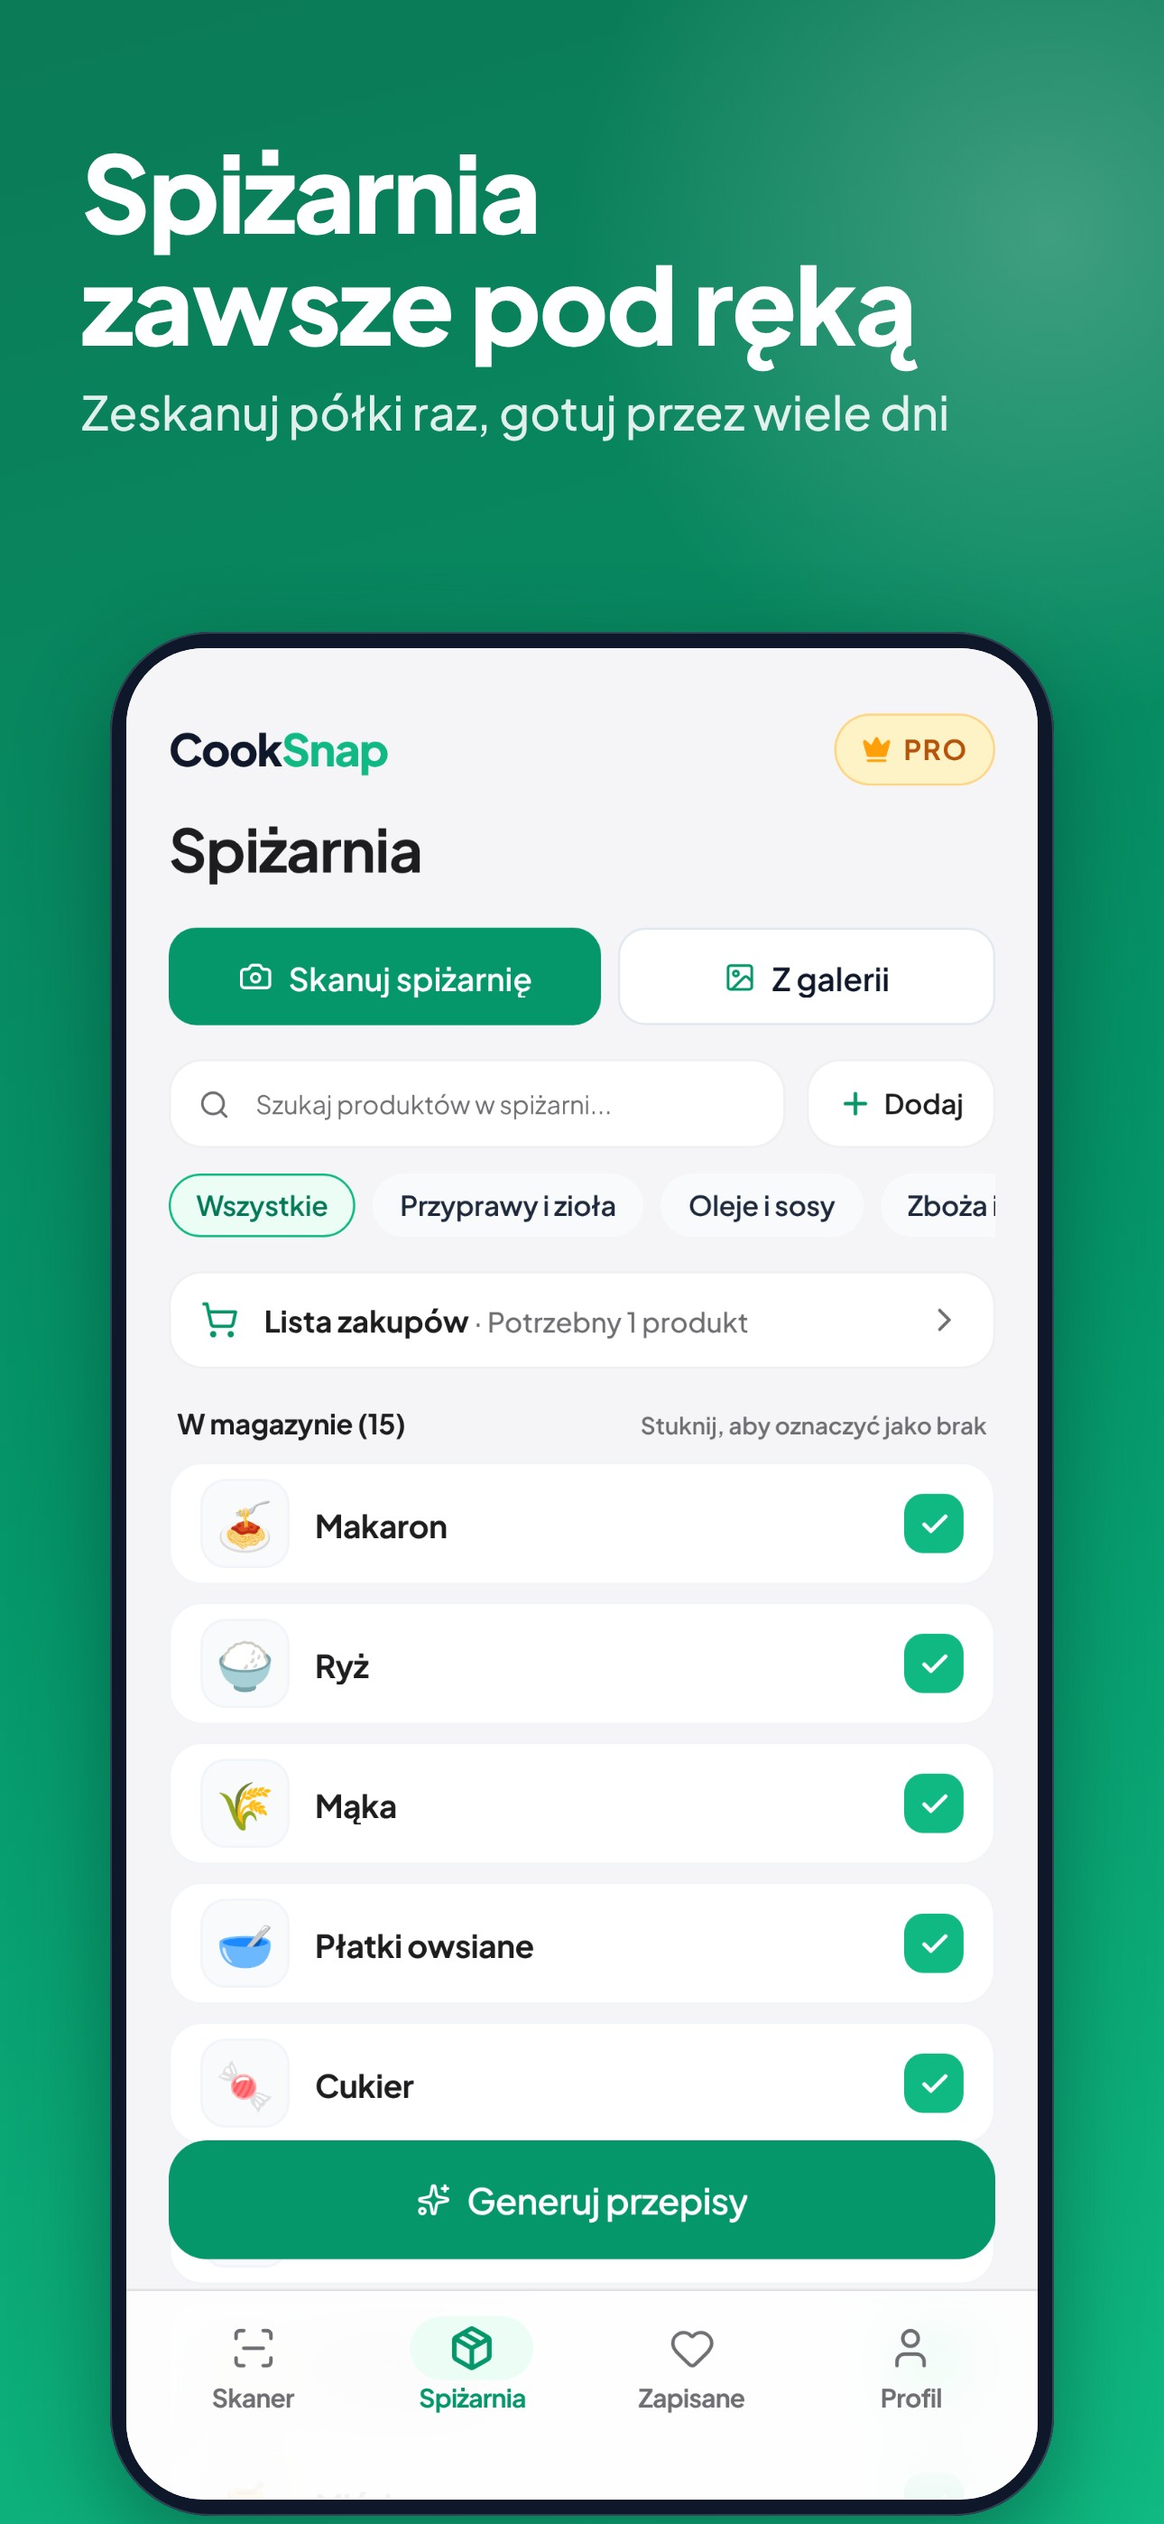
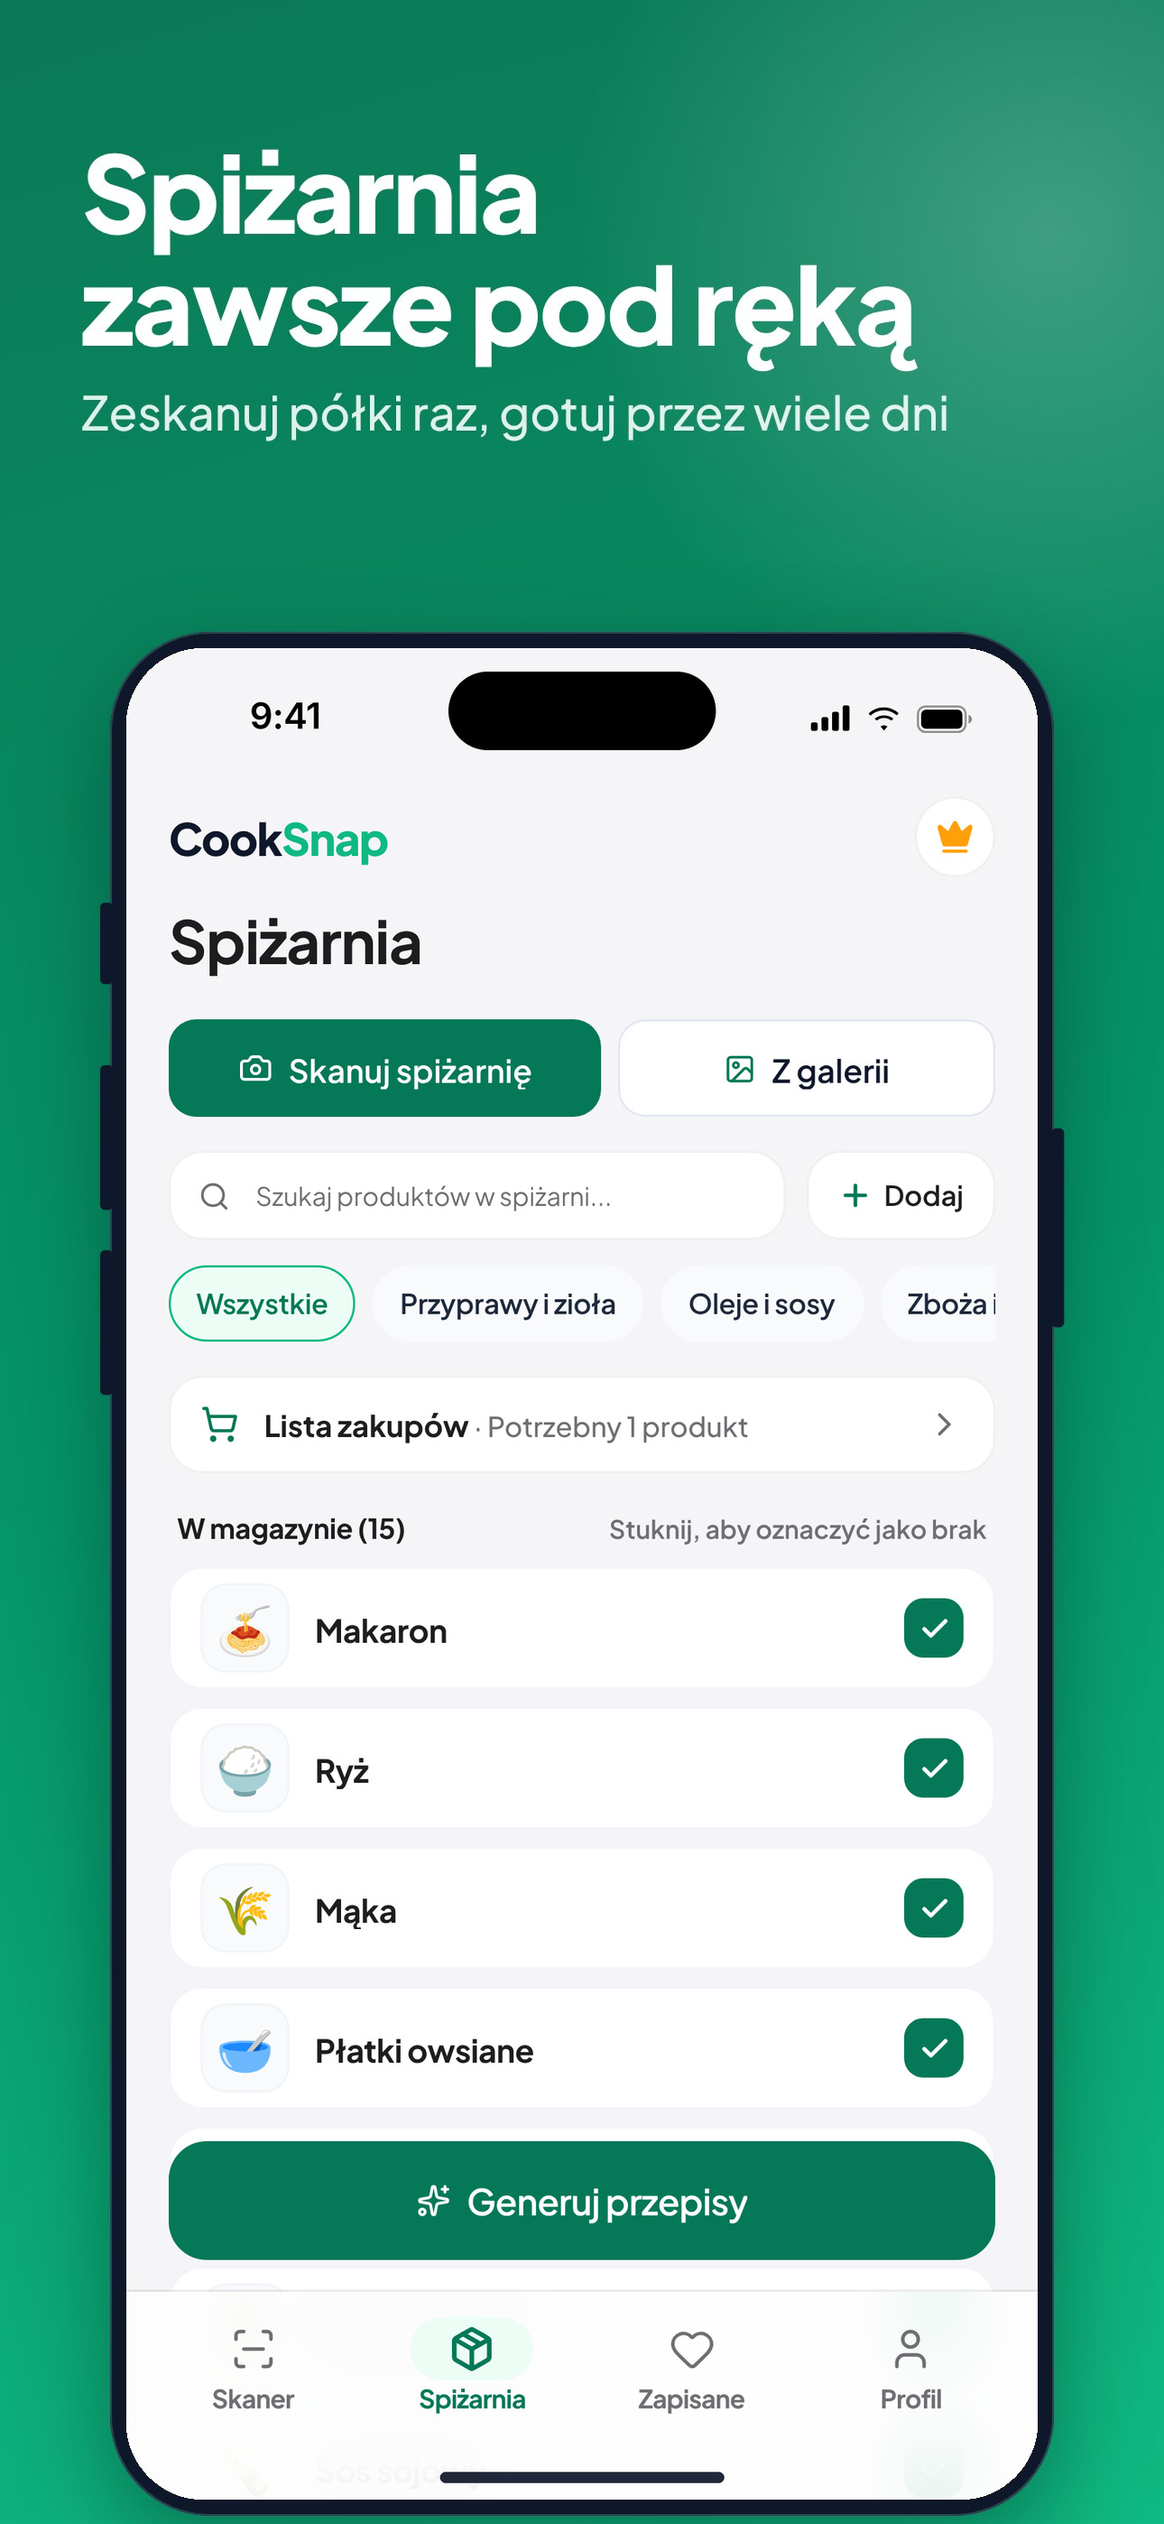
Store slides 03-07 (EN, PL) recaptured from the real app; all iOS slides with iPhone frame details; frame mask kept
Claude-Session: https://claude.ai/code/session_01RtbBoobjW7cVhPz1v3aXm1

diff --git a/docs/store/screenshots/tools/capture.js b/docs/store/screenshots/tools/capture.js
@@ -1,7 +1,7 @@
 // Captures the REAL CookSnap screen (the web build served by Metro on :8081) at the phone frame of the slides (430 x 873 pt @3x
 // = 1290 x 2619 px, the same shape as the frame screen) and draws the iOS status bar (9:41, signal, Wi-Fi, full battery) on top, because a browser has none.
 //
-//   NODE_PATH=<dir with playwright> node capture.js <scan|recipes> <en|pl> <out.png> [fridge-photo.jpg|png]
+//   NODE_PATH=<dir with playwright> node capture.js <scan|recipes|steps|diets|planner|pantry|modify> <en|pl> <out.png> [fridge-photo.jpg|png]
 //
 // Needs `EXPO_PUBLIC_GEMINI_PROXY_URL=... npx expo start --web --port 8081` running. Nothing in the app is changed: the
 // screen is put in its normal "just scanned" state by writing the app's own saved data (same keys the app uses), and
@@ -13,7 +13,10 @@ const path = require('path');
 const [slide, lang, out, photo] = process.argv.slice(2);
 if (!slide || !lang || !out) { console.error('usage: capture.js <scan|recipes> <en|pl> <out.png> [photo]'); process.exit(1); }
 
-const T = require(path.join(__dirname, 'strings.js'))[lang];
+const TR = require('child_process').execFileSync('node', ['--input-type=module', '-e', `import('${path.resolve(__dirname, '../../../../src/i18n/translations/' + lang + '.js')}').then(m=>process.stdout.write(JSON.stringify(m.default)))`], { maxBuffer: 1 << 24, stdio: ['ignore', 'pipe', 'ignore'] }).toString();
+const K = JSON.parse(TR);
+const zw = (str) => str.split('').join('\u200c?'); // the app puts a zero-width joiner inside some tab labels
+const T = { nav_scanner: K['nav.scanner'], generate: K['scanner.generateRecipes'], recipesTitle: K['recipeFeed.title'] };
 const ING = {
   en: ['Eggs', 'Milk', 'Cheese', 'Butter', 'Tomatoes', 'Bell Pepper', 'Spinach', 'Lemons', 'Strawberries', 'Carrots', 'Cucumber', 'Broccoli', 'Chicken', 'Olives'],
   pl: ['Jajka', 'Mleko', 'Ser', 'Masło', 'Pomidory', 'Papryka', 'Szpinak', 'Cytryny', 'Truskawki', 'Marchewki', 'Ogórek', 'Brokuły', 'Kurczak', 'Oliwki'],
@@ -21,8 +24,17 @@ const ING = {
 const EMOJI = ['🥚', '🥛', '🧀', '🧈', '🍅', '🫑', '🥬', '🍋', '🍓', '🥕', '🥒', '🥦', '🍗', '🫒'];
 const items = ING[lang].map((name, i) => ({ id: `ing-${i}`, name, emoji: EMOJI[i], icon: EMOJI[i] }));
 
+const PANTRY = {
+  en: ['Pasta', 'Rice', 'Flour', 'Rolled oats', 'Sugar', 'Olive oil', 'Soy sauce', 'Honey', 'Tomato paste', 'Salt', 'Black pepper', 'Paprika', 'Oregano', 'Cinnamon', 'Mustard', 'Ketchup'],
+  pl: ['Makaron', 'Ryż', 'Mąka', 'Płatki owsiane', 'Cukier', 'Oliwa z oliwek', 'Sos sojowy', 'Miód', 'Koncentrat pomidorowy', 'Sól', 'Czarny pieprz', 'Papryka słodka', 'Oregano', 'Cynamon', 'Musztarda', 'Ketchup'],
+}[lang];
+const PANTRY_META = [['Grains & Baking', '🍝'], ['Grains & Baking', '🍚'], ['Grains & Baking', '🌾'], ['Grains & Baking', '🥣'], ['Grains & Baking', '🍬'], ['Oils & Sauces', '🫒'], ['Oils & Sauces', '🍾'], ['Oils & Sauces', '🍯'], ['Oils & Sauces', '🍅'], ['Spices & Herbs', '🧂'], ['Spices & Herbs', '🧂'], ['Spices & Herbs', '🌶'], ['Spices & Herbs', '🌿'], ['Spices & Herbs', '🍂'], ['Condiments', '🟡'], ['Condiments', '🍅']];
+const pantryItems = PANTRY.map((name, i) => ({ id: `p-${i}`, name, category: PANTRY_META[i][0], icon: PANTRY_META[i][1], emoji: PANTRY_META[i][1], inStock: i !== 15 }));
+const MODIFY = { en: 'Make it dairy-free', pl: 'Zrób to bez nabiału' }[lang];
+const USES = { en: /Uses \d+ fridge item/, pl: /Wykorzystuje \d+ składnik/ }[lang];
+
 const STATUS_BAR = `
-<div id="ios-status" style="position:fixed;left:0;top:0;width:430px;height:54px;z-index:2147483647;pointer-events:none;font-family:Inter,'SF Pro Text',-apple-system,Helvetica,Arial,sans-serif;color:#000">
+<div id="ios-status" style="position:fixed;left:0;top:0;width:430px;height:54px;z-index:2147483647;pointer-events:none;__BG__font-family:Inter,'SF Pro Text',-apple-system,Helvetica,Arial,sans-serif;color:#000">
   <div style="position:absolute;left:0;top:0;width:150px;height:54px;display:flex;align-items:center;justify-content:center;padding-top:6px;font-weight:600;font-size:17px;letter-spacing:-0.2px">9:41</div>
   <div style="position:absolute;right:30px;top:0;height:54px;display:flex;align-items:center;gap:7px;padding-top:6px">
     <svg width="19" height="12" viewBox="0 0 19 12"><rect x="0" y="8" width="3.2" height="4" rx="1" fill="#000"/><rect x="5" y="5.5" width="3.2" height="6.5" rx="1" fill="#000"/><rect x="10" y="3" width="3.2" height="9" rx="1" fill="#000"/><rect x="15" y="0" width="3.2" height="12" rx="1" fill="#000"/></svg>
@@ -39,8 +51,10 @@ const STATUS_BAR = `
     'cooksnap:onboardingComplete:v1': 'true', 'cooksnap:recipeLanguage:v1': lang, 'cooksnap:unitSystem:v1': lang === 'pl' ? 'metric' : 'us',
     'cooksnap:firstScanHintShown:v1': 'true', 'cooksnap:settingsDoneHintShown:v1': 'true', 'cooksnap:aiConsent:v1': 'true',
     'cooksnap:ingredients:v1': JSON.stringify(items),
-    'cooksnap:isPro:v1': slide === 'recipes' ? 'true' : 'false',
+    'cooksnap:isPro:v1': slide === 'scan' ? 'false' : 'true',
+    'cooksnap:pantryItems:v1': JSON.stringify(pantryItems),
   };
+  if (slide === 'diets') seed['cooksnap:dietaryRestrictions:v1'] = JSON.stringify({ vegetarian: true, vegan: false, gluten_free: true, lactose_free: false, dairy_free: false, keto: false, nut_free: false, pescatarian: false, diabetic: false });
   if (photo) { seed['cooksnap:fridgePhoto:v1'] = JSON.stringify('/__shot/fridge'); await page.route('**/__shot/fridge', (r) => r.fulfill({ body: fs.readFileSync(photo), contentType: photo.endsWith('.png') ? 'image/png' : 'image/jpeg' })); }
   await page.addInitScript((s) => { for (const [k, v] of Object.entries(s)) localStorage.setItem(k, v); }, seed);
   const cdp = await ctx.newCDPSession(page);
@@ -48,18 +62,57 @@ const STATUS_BAR = `
   await page.goto('http://localhost:8081/', { waitUntil: 'load' });
   await page.getByText(T.nav_scanner, { exact: true }).last().waitFor({ timeout: 120000 });
   await page.waitForTimeout(2500);
-  if (slide === 'recipes') {
+  const generate = async () => {
     await page.getByText(T.generate, { exact: true }).first().click();
     await page.getByText(T.recipesTitle, { exact: true }).first().waitFor({ timeout: 180000 });
     await page.waitForTimeout(6000); // let the cards and their emoji settle
-    await page.evaluate((title) => {
-      const el = [...document.querySelectorAll('div')].find((d) => d.children.length === 0 && d.textContent.trim() === title);
-      const sc = [...document.querySelectorAll('div')].filter((e) => e.scrollHeight > e.clientHeight + 50);
-      if (el) for (const s of sc) s.scrollTop += el.getBoundingClientRect().top - 64;
-    }, T.recipesTitle);
-    await page.waitForTimeout(1200);
+  };
+  // Scrolls only the container that holds the text (so a sheet's own list moves, not the page behind it).
+  const scrollTo = (text, offset = 64) => page.evaluate(([title, off]) => {
+    const el = [...document.querySelectorAll('div')].find((d) => d.children.length === 0 && d.textContent.trim() === title);
+    if (!el) return;
+    let sc = el.parentElement;
+    while (sc && !(sc.scrollHeight > sc.clientHeight + 50 && /(auto|scroll)/.test(getComputedStyle(sc).overflowY))) sc = sc.parentElement;
+    if (sc) sc.scrollTop += el.getBoundingClientRect().top - off;
+  }, [text, offset]);
+  const tab = async (key) => { await page.getByText(new RegExp('^' + zw(K[key]) + '$')).last().click(); await page.waitForTimeout(1500); };
+  const openFirstRecipe = async () => { await page.getByText(USES).first().click(); await page.waitForTimeout(2500); };
+
+  if (slide === 'recipes') { await generate(); await scrollTo(T.recipesTitle); }
+  if (slide === 'steps') { await generate(); await openFirstRecipe(); await scrollTo(K['recipeDetail.instructionsTitle'], 250); }
+  if (slide === 'modify') {
+    await generate(); await openFirstRecipe();
+    await page.getByText(K['recipeDetail.modifyWithAI'], { exact: true }).first().click();
+    await page.waitForTimeout(800);
+    await page.getByPlaceholder(K['recipeDetail.modifyPlaceholder']).fill(MODIFY);
+    await page.waitForTimeout(500);
   }
-  await page.evaluate((html) => { const d = document.createElement('div'); d.innerHTML = html; document.body.appendChild(d.firstElementChild); }, STATUS_BAR);
+  if (slide === 'planner') {
+    await tab('nav.profile');
+    await page.getByText(K['menu.mealPlanner'], { exact: true }).first().click();
+    await page.waitForTimeout(1500);
+    await page.getByText(K['mealPlanner.autoFillWeek'], { exact: true }).first().click();
+    await page.getByText(K['mealPlanner.regenerateWeek'], { exact: true }).first().waitFor({ timeout: 240000 });
+    await page.waitForTimeout(4000);
+  }
+  if (slide === 'diets') {
+    await tab('nav.profile');
+    await page.getByText(new RegExp('^' + K['diet.vegetarian.name'])).first().click();   // open the diet list
+    await page.waitForTimeout(1200);
+    await scrollTo(K['profile.dietPreferences'], 74);
+    await page.waitForTimeout(800);
+  }
+  if (slide === 'pantry') { await tab('nav.pantry'); await page.waitForTimeout(1500); }
+  // Behind the status bar: plain screens show the app background (content scrolled under it is hidden, like a real
+  // iOS nav bar); sheets show the same dim colour the app puts over the page, so nothing peeks through behind the clock.
+  const modal = ['steps', 'modify', 'planner'].includes(slide);
+  let barBg = '#F5F5F7';
+  if (modal) {
+    const px = await page.screenshot({ clip: { x: 200, y: 8, width: 1, height: 1 }, type: 'png' });
+    const png = require('zlib').inflateSync(Buffer.concat((() => { const out = []; let o = 8; while (o < px.length) { const len = px.readUInt32BE(o); const type = px.toString('ascii', o + 4, o + 8); if (type === 'IDAT') out.push(px.subarray(o + 8, o + 8 + len)); o += 12 + len; } return out; })()));
+    barBg = `rgb(${png[1]},${png[2]},${png[3]})`;
+  }
+  await page.evaluate((html) => { const d = document.createElement('div'); d.innerHTML = html; document.body.appendChild(d.firstElementChild); }, STATUS_BAR.replace('__BG__', `background:${barBg};`));
   await page.waitForTimeout(500);
   await page.screenshot({ path: out });
   await browser.close();

diff --git a/docs/store/screenshots/tools/compose.py b/docs/store/screenshots/tools/compose.py
@@ -15,17 +15,24 @@ tpl = Image.open(tpl_path).convert('RGB')
 W, H = tpl.size
 a = np.asarray(tpl).astype(int)
 
-dark = a.sum(axis=2) < 190                      # the navy frame is about (15, 23, 42)
-lab, _ = ndi.label(dark, structure=np.ones((3, 3)))
-row = int(H * 0.5)
-xs = [x for x in range(int(W * 0.05), int(W * 0.25)) if dark[row, x]]
-ring = lab == lab[row, xs[0]]                   # the frame: dark pixels connected to the left bezel
-lab2, _ = ndi.label(~ring)
-inner = lab2 == lab2[row, W // 2]               # everything the frame encloses
-inner = ndi.binary_erosion(inner, iterations=1) # keep the frame's anti-aliased edge intact
-ry, rx = np.where(ring)
-ring_x0, ring_x1 = int(rx.min()), int(rx.max())
+import os
+MASK = os.path.join(os.path.dirname(os.path.abspath(__file__)), 'frame-mask.png')
+ring_ref = None
+if os.path.exists(MASK) and Image.open(MASK).size == (W, H):
+    # The phone frame sits in the same place on every slide. The saved mask (made from a slide whose screen touches nothing
+    # dark) is used so dark content of an OLD screen that touches the frame cannot be mistaken for part of the frame.
+    inner = np.asarray(Image.open(MASK).convert('L')) > 127
+else:
+    dark = a.sum(axis=2) < 190                  # the navy frame is about (15, 23, 42)
+    lab, _ = ndi.label(dark, structure=np.ones((3, 3)))
+    row = int(H * 0.5)
+    xs = [x for x in range(int(W * 0.05), int(W * 0.25)) if dark[row, x]]
+    ring = lab == lab[row, xs[0]]               # the frame: dark pixels connected to the left bezel
+    lab2, _ = ndi.label(~ring)
+    inner = lab2 == lab2[row, W // 2]           # everything the frame encloses
+    Image.fromarray((inner * 255).astype(np.uint8), 'L').save(MASK)   # keep it for the next slides
 ys, xx = np.where(inner)
+FRAME = 19                                        # thickness of the frame ring in slide pixels
 x0, x1, y0, y1 = xx.min(), xx.max() + 1, ys.min(), ys.max() + 1
 
 cap = Image.open(cap_path).convert('RGB')
@@ -45,11 +52,9 @@ cx = (x0 + x1) / 2
 box = lambda a, b, c, e, r, fill: d.rounded_rectangle((a * SS, b * SS, c * SS, e * SS), radius=r * SS, fill=fill)
 box(cx - 63 * ppt, y0 + 11 * ppt, cx + 63 * ppt, y0 + 48 * ppt, 18.5 * ppt, (0, 0, 0, 255))              # Dynamic Island 126 x 37 pt
 box(cx - 67 * ppt, y1 - 13 * ppt, cx + 67 * ppt, y1 - 8 * ppt, 2.5 * ppt, (15, 23, 42, 235))               # home indicator 134 x 5 pt
-rx0, rx1 = ys.min(), ys.max()
-fx0, fx1 = int(x0 - (x0 - ring_x0)), int(ring_x1)
 for a, b in ((1000, 1090), (1180, 1340), (1385, 1545)):                                                    # action, volume up, volume down
-    box(ring_x0 - 10, a, ring_x0 + 4, b, 5, (15, 23, 42, 255))
-box(ring_x1 - 4, 1250, ring_x1 + 10, 1470, 5, (15, 23, 42, 255))                                           # power
+    box(x0 - FRAME - 10, a, x0 - FRAME + 4, b, 5, (15, 23, 42, 255))
+box(x1 + FRAME - 4, 1250, x1 + FRAME + 10, 1470, 5, (15, 23, 42, 255))                                           # power
 ov = ov.resize((W, H), Image.LANCZOS)
 tpl = Image.alpha_composite(tpl.convert('RGBA'), ov).convert('RGB')
 tpl.save(out_path, quality=93, subsampling=0)

diff --git a/docs/store/screenshots/README.md b/docs/store/screenshots/README.md
@@ -8,20 +8,20 @@ Finished drafts with captions, in English and Polish, ready to upload once the a
 | `final/google/en`, `final/google/pl` | 1080 x 2160 (2:1) | Google Play phone screenshots |
 
 Seven slides each, in this order: 01 scan, 02 recipes, 03 steps, 04 diets, 05 planner (PRO), 06 pantry, 07 Modify with AI (PRO).
+IOS 6.9" slides 01-07 (EN, PL) are all recaptured from the real app with an iOS status bar; the Google Play set (1080 x 2160) still
+uses the older captures and needs the same treatment.
 
 How they were made: the app's real screens captured in a phone-sized browser window (the sample scan, real AI recipes
 and a real AI week plan, in each language), cropped of the empty status-bar band, put in a phone frame on the brand
 green with a caption. The Polish set shows the Polish app with Polish recipes.
 
 Known limits, to fix before submitting:
-- No clock, battery or signal bar (the browser has none). Captures from a real phone (TestFlight / an Android build)
-  would be more convincing, and Apple's review may prefer them.
-- The sample-scan slide still says "This is a sample fridge".
+- The iOS status bar is drawn on top (a browser has none). Captures from a real phone (TestFlight) would be more convincing.
 - The captions are drafts; a lawyer is not needed for them, but check the PRO wording once real prices exist.
 - If the app is renamed, the screens that show the "CookSnap" wordmark need recapturing.
 - The capture scripts are in `tools/` (see below).
 
-## How slides 01 and 02 are made now (`tools/`)
+## How the slides are made now (`tools/`)
 
 1. Start the app's web build: `EXPO_PUBLIC_GEMINI_PROXY_URL=https://cooksnap-proxy.cooksnap.workers.dev npx expo start --web --port 8081`.
 2. `NODE_PATH=<dir with playwright> node tools/capture.js <scan|recipes> <en|pl> out.png [fridge-photo]` takes the REAL screen at
@@ -29,7 +29,9 @@ Known limits, to fix before submitting:
    "Generate AI Recipes", so the recipes are written by the AI through the proxy (PRO state, so the badge reads
    "7 of 8 generations left today"). `scan` shows the "just scanned" screen with the given photo and the 14 ingredients.
    Nothing in the app is changed or faked: the screen is put in its state by writing the app's own saved data.
+   Slides: `scan` (01), `recipes` (02, real AI), `steps` (03, real AI recipe), `diets` (04), `planner` (05, real AI week plan),
+   `pantry` (06), `modify` (07, real AI recipe, "Make it dairy-free" typed, not applied). All PRO except `scan`.
 3. `python tools/compose.py <old-slide.jpg> capture.png <new-slide.jpg>` swaps the screen inside the phone frame, draws the iPhone details (Dynamic Island, home indicator, side buttons) and keeps
-   the green background, caption and frame as they are (1290 x 2796).
+   the green background, caption and frame as they are (1290 x 2796). `tools/frame-mask.png` is the screen shape inside the frame.
 
 Source photo for slide 01: `source/ai-fridge-argolink.png` (AI-generated; keep the prompt, date and the site's terms with it).
